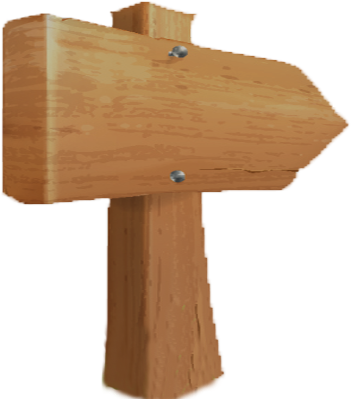
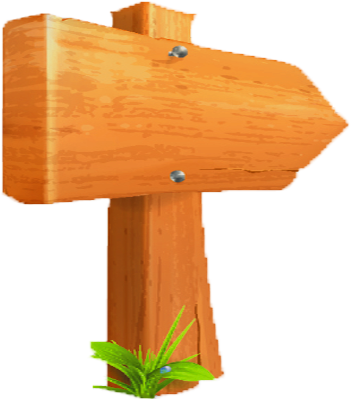
#S06P31A106-146 Style: 팻말 이미지 변경

diff --git a/frontend/src/containers/MyGarden/MyGardenDandelionDetail.tsx b/frontend/src/containers/MyGarden/MyGardenDandelionDetail.tsx
@@ -58,7 +58,7 @@ const MyGardenDandelionDetail = () => {
       confirmButtonText: 'Yes',
     }).then(async (result) => {
       if (result.isConfirmed) {
-        console.log(seq);
+        //   console.log(seq);
         const result = await deletePetalSeq(seq);
         if (result.status === 204) {
           Swal.fire(`삭제가 완료되었습니다.`, '', 'success');
@@ -66,7 +66,7 @@ const MyGardenDandelionDetail = () => {
         }
       }
     });
-    console.log(seq);
+    //   console.log(seq);
   };
 
   // const onDeleteDandelionClick = async () => {
@@ -120,12 +120,12 @@ const MyGardenDandelionDetail = () => {
     //   });
 
     const num = Number(id);
-    console.log(num);
+    //  console.log(num);
 
     const response = await getDandelionDetail(num);
-    console.log(response);
+    //  console.log(response);
     setList(response.data.data.petalInfos.reverse());
-    console.log(response.data.data.totalPetalCount);
+    //  console.log(response.data.data.totalPetalCount);
     setCount(response.data.data.totalPetalCount);
   };
   useEffect(() => {

diff --git a/frontend/src/containers/MyGarden/MyGardenDandelion3.js b/frontend/src/containers/MyGarden/MyGardenDandelion3.js
@@ -417,7 +417,7 @@ function MyGardenDandelion3({ dandelion, setDandel }) {
           <div className={cx('returned-sign')}>
             <img
               style={{ width: '100%' }}
-              src={require(`assets/images/signimg${dandelion.flowerSignNumber}_dandle.png`)}
+              src={require(`assets/images/signimg${dandelion.flowerSignNumber}.png`)}
               alt="팻말"
             />
             <Dday>{date}</Dday>
@@ -426,7 +426,7 @@ function MyGardenDandelion3({ dandelion, setDandel }) {
           <div className={cx('normal-sign')}>
             <img
               style={{ width: '100%' }}
-              src={require(`assets/images/signimg${dandelion.flowerSignNumber}_dandle.png`)}
+              src={require(`assets/images/signimg${dandelion.flowerSignNumber}.png`)}
               alt="팻말"
             />
             {blossom ? <AfterDday>{finalDate}</AfterDday> : <Dday>{date}</Dday>}

diff --git a/frontend/src/containers/MyGarden/MyGardenMain.js b/frontend/src/containers/MyGarden/MyGardenMain.js
@@ -87,8 +87,8 @@ function MyGardenMain() {
       headers: config,
     })
       .then((res) => {
-        console.log('꽃밭 가져오기 성공');
-        console.log(res.data.data);
+        //   console.log('꽃밭 가져오기 성공');
+        //  console.log(res.data.data);
         setDandelions(res.data.data);
         res.data.data.map((data, index) => {
           if (data == null && index === 0) {
@@ -105,8 +105,8 @@ function MyGardenMain() {
         });
       })
       .catch((err) => {
-        console.log('꽃밭 가져오기 실패');
-        console.log(err);
+        //   console.log('꽃밭 가져오기 실패');
+        //   console.log(err);
       });
   }
 

diff --git a/frontend/src/containers/MyGarden/MyGardenNoDandelion.js b/frontend/src/containers/MyGarden/MyGardenNoDandelion.js
@@ -7,7 +7,7 @@ const cx = classNames.bind(styles);
 
 function MyGardenNoDandelion({ keynum }) {
   useEffect(() => {
-    console.log(keynum);
+    // console.log(keynum);
   }, []);
   return (
     <div className={cx('container')}>

diff --git a/frontend/src/layouts/garden/gardenBack.module.scss b/frontend/src/layouts/garden/gardenBack.module.scss
@@ -4,8 +4,8 @@
   height: 100vh;
   background: linear-gradient(
     180deg,
-    #cff4ff 0%,
-    #ffffc3 20%,
+    #e1f8ff 0%,
+    #ffffce 20%,
     #ffffff 50%,
     #9ee0e9 80%
   );

diff --git a/frontend/src/containers/MyGarden/MyGardenDandelion2.module.scss b/frontend/src/containers/MyGarden/MyGardenDandelion2.module.scss
@@ -40,7 +40,6 @@
     }
 
     .normal-sign {
-      filter: drop-shadow(0px 5px 8px rgba(100, 100, 100, 0.74));
       width: 100%;
       font-weight: 700;
       object-fit: contain;

diff --git a/frontend/src/containers/MyGarden/MyGardenNoDandelion.module.scss b/frontend/src/containers/MyGarden/MyGardenNoDandelion.module.scss
@@ -39,7 +39,6 @@
     }
 
     .normal-sign {
-      filter: drop-shadow(0px 5px 5px rgba(0, 0, 0, 0.37));
       width: 100%;
       object-fit: contain;
       margin: auto;
